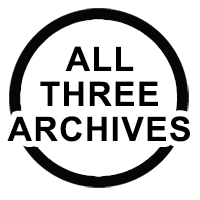
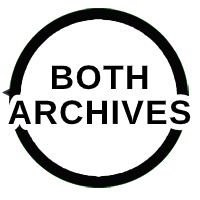
Adjust image count # and logic to activate the 'all' functionality. Related to #296

diff --git a/mink-plugin/js/displayMinkUI.js b/mink-plugin/js/displayMinkUI.js
@@ -693,10 +693,11 @@ function bindArchiveLogos () {
       archiveURIArchiveOrg(cb, openInNewTab)
     } else if (archiveLogoID === 'archivelogo_ais') {
       archiveURIArchiveDotIs(cb, openInNewTab)
-    } else if (archiveLogoID === 'archivelogo_ala') { // Async calls to 3 archives
+    } else if (archiveLogoID === 'archivelogo_ala') { // Async calls to 2 archives
       const iaNewSrc = $(iaLogo).attr('src').replace('.png', '_success.png')
       const aisNewSrc = $(aisLogo).attr('src').replace('.png', '_success.png')
 
+      // This might be better accomplished with Promise.all()
       const iaCb = function () {
         changeIconFor(iaLogo, iaNewSrc)
         changeArchiveAllIconWhenComplete(alaLogo)
@@ -719,7 +720,7 @@ function bindArchiveLogos () {
 var archivesFinished = 0 /* TOFIX This is doubly declared if 'let' */
 function changeArchiveAllIconWhenComplete (iconObj) {
   archivesFinished++
-  if (archivesFinished >= 3) {
+  if (archivesFinished >= 2) {
     $(iconObj).attr('src', chrome.extension.getURL('./images/archives/allListedArchives_success.png'))
     $(iconObj).unbind()
     $(iconObj).removeClass('archiveLogo')
